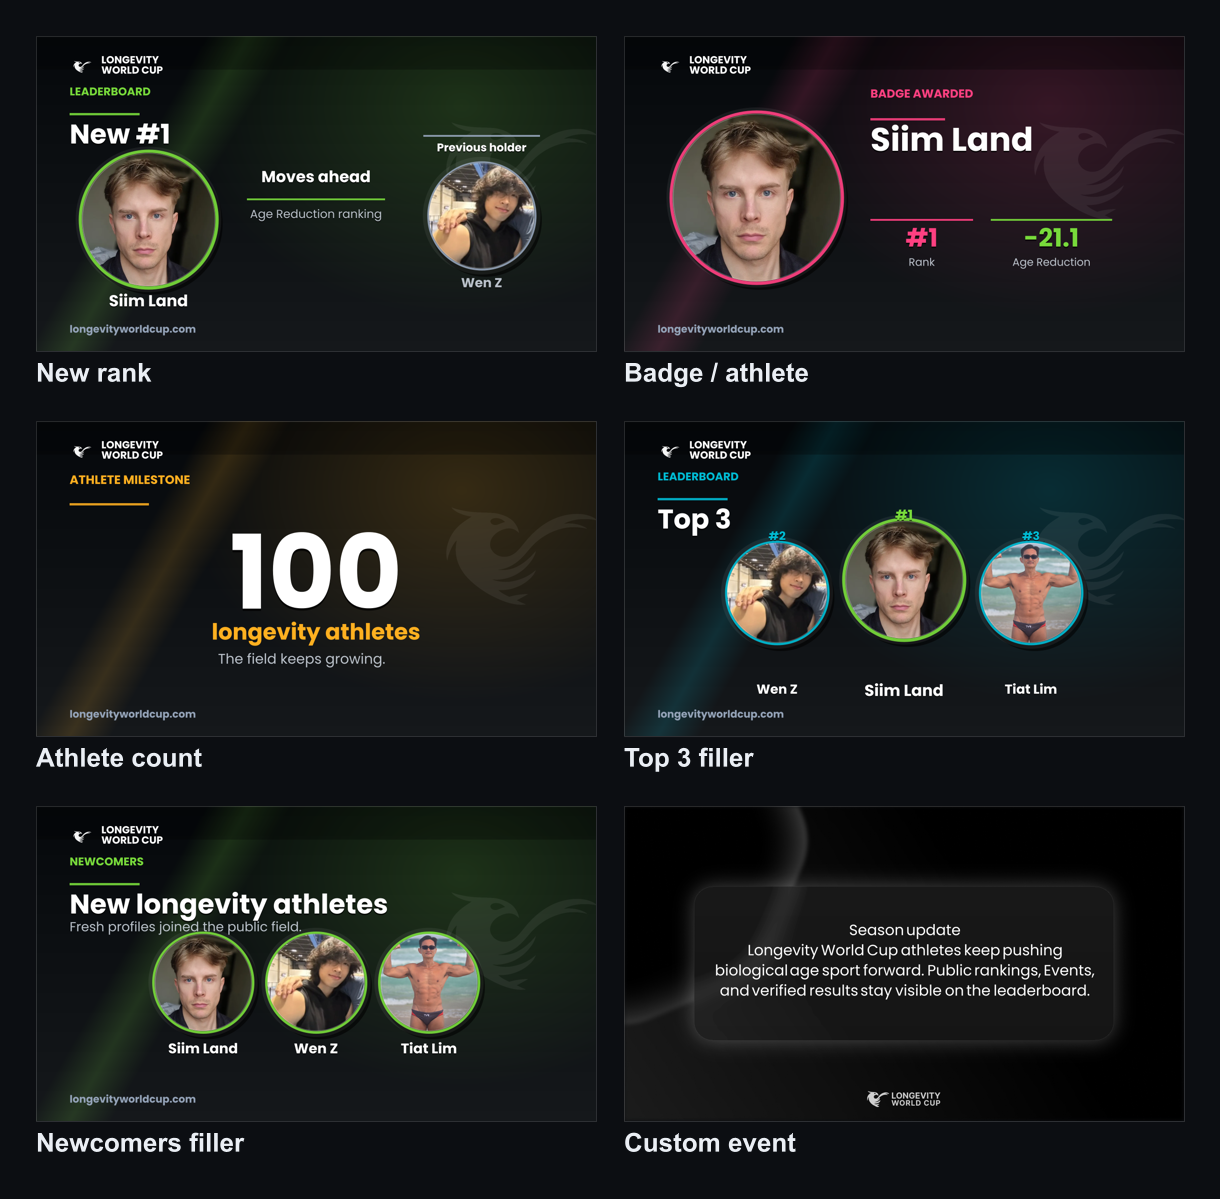
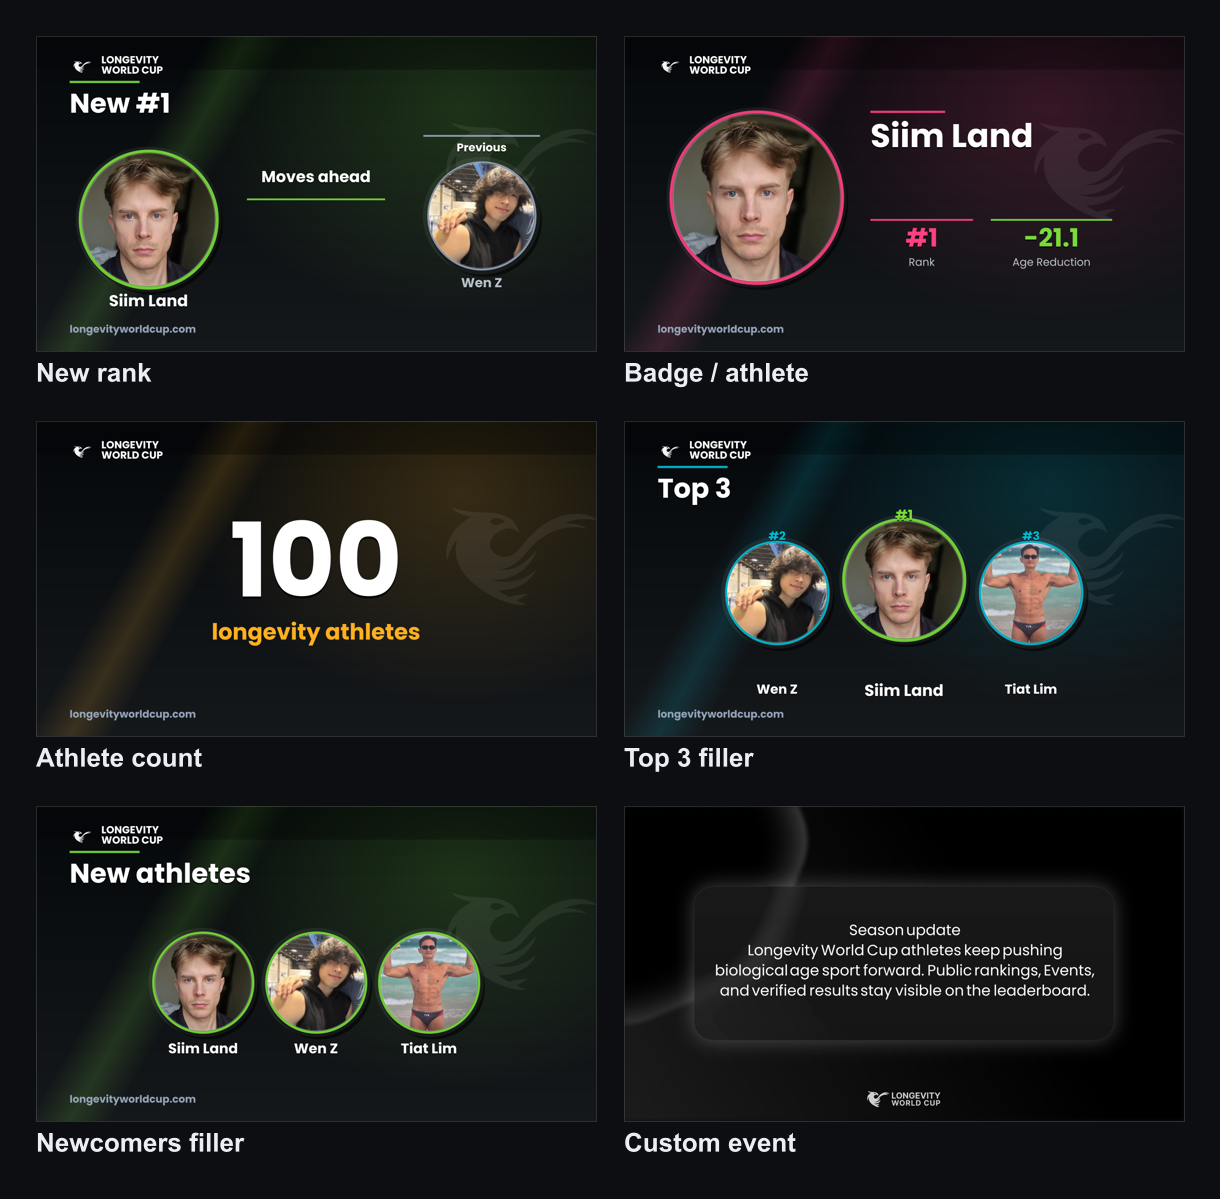
Reduce preview copy

diff --git a/LongevityWorldCup.Website/Business/XImageService.cs b/LongevityWorldCup.Website/Business/XImageService.cs
@@ -74,9 +74,9 @@ public class XImageService
         DrawTitleBlock(
             image,
             fonts,
-            "Newcomers",
-            "New longevity athletes",
-            "Fresh profiles joined the public field.",
+            "",
+            "New athletes",
+            "",
             GreenAccent);
 
         const int size = 208;
@@ -110,7 +110,7 @@ public class XImageService
         DrawTitleBlock(
             image,
             fonts,
-            "Leaderboard",
+            "",
             winner.Rank > 0 ? $"New #{winner.Rank}" : "New rank",
             "",
             GreenAccent);
@@ -125,9 +125,7 @@ public class XImageService
         {
             var badgeFont = fonts.Bold.CreateFont(24f, FontStyle.Bold);
             var centerFont = fonts.Bold.CreateFont(34f, FontStyle.Bold);
-            var smallFont = fonts.Regular.CreateFont(25f, FontStyle.Regular);
-
-            DrawMetricPill(ctx, "Previous holder", badgeFont, FaintTextColor, 830f, 212f, 250f, 48f);
+            DrawMetricPill(ctx, "Previous", badgeFont, FaintTextColor, 830f, 212f, 250f, 48f);
 
             ctx.Fill(ToRgba(GreenAccent, 225), new RectangularPolygon(452f, 348f, 296f, 4f));
             DrawTextShadow(ctx, "Moves ahead", centerFont, new PointF(CanvasWidth / 2f, 286f), HorizontalAlignment.Center, 2f);
@@ -137,14 +135,6 @@ public class XImageService
                 HorizontalAlignment = HorizontalAlignment.Center,
                 VerticalAlignment = VerticalAlignment.Top
             }, "Moves ahead", TextColor);
-
-            DrawTextShadow(ctx, "Age Reduction ranking", smallFont, new PointF(CanvasWidth / 2f, 370f), HorizontalAlignment.Center, 2f);
-            ctx.DrawText(new RichTextOptions(smallFont)
-            {
-                Origin = new PointF(CanvasWidth / 2f, 370f),
-                HorizontalAlignment = HorizontalAlignment.Center,
-                VerticalAlignment = VerticalAlignment.Top
-            }, "Age Reduction ranking", MutedTextColor);
         });
 
         DrawDomain(image, fonts.Bold);
@@ -165,21 +155,13 @@ public class XImageService
 
         image.Mutate(ctx =>
         {
-            var kickerFont = fonts.Bold.CreateFont(25f, FontStyle.Bold);
             var titleFont = FitFontToWidth(fonts.Bold, athlete.Name, 70f, 44f, 560f);
             var metricFont = fonts.Bold.CreateFont(54f, FontStyle.Bold);
             var metricLabelFont = fonts.Regular.CreateFont(23f, FontStyle.Regular);
 
-            ctx.Fill(new Rgba32(255, 64, 129, 220), new RectangularPolygon(528f, 176f, 160f, 5f));
-            ctx.DrawText(new RichTextOptions(kickerFont)
-            {
-                Origin = new PointF(528f, 112f),
-                HorizontalAlignment = HorizontalAlignment.Left,
-                VerticalAlignment = VerticalAlignment.Top
-            }, "BADGE AWARDED", PinkAccent);
-
-            DrawTextShadow(ctx, athlete.Name, titleFont, new PointF(528f, 190f), HorizontalAlignment.Left, 3f);
-            DrawWrappedText(ctx, athlete.Name, titleFont, TextColor, new PointF(528f, 190f), 560f, 2, 76f);
+            ctx.Fill(new Rgba32(255, 64, 129, 220), new RectangularPolygon(528f, 160f, 160f, 5f));
+            DrawTextShadow(ctx, athlete.Name, titleFont, new PointF(528f, 182f), HorizontalAlignment.Left, 3f);
+            DrawWrappedText(ctx, athlete.Name, titleFont, TextColor, new PointF(528f, 182f), 560f, 2, 76f);
             DrawMetricColumn(ctx, BuildRankValue(athlete), "Rank", metricFont, metricLabelFont, PinkAccent, 638f, 392f, 220f);
             DrawMetricColumn(ctx, BuildReductionValue(athlete), "Age Reduction", metricFont, metricLabelFont, GreenAccent, 916f, 392f, 260f);
         });
@@ -207,7 +189,7 @@ public class XImageService
         DrawTitleBlock(
             image,
             fonts,
-            "Leaderboard",
+            "",
             "Top 3",
             "",
             CyanAccent);
@@ -275,24 +257,14 @@ public class XImageService
 
         image.Mutate(ctx =>
         {
-            var kickerFont = fonts.Bold.CreateFont(26f, FontStyle.Bold);
             var numberFont = FitFontToWidth(fonts.Bold, athleteCount.ToString(CultureInfo.InvariantCulture), 220f, 118f, 760f);
             var labelFont = fonts.Bold.CreateFont(48f, FontStyle.Bold);
-            var bodyFont = fonts.Regular.CreateFont(30f, FontStyle.Regular);
-
-            ctx.DrawText(new RichTextOptions(kickerFont)
-            {
-                Origin = new PointF(HeaderX, 114f),
-                HorizontalAlignment = HorizontalAlignment.Left,
-                VerticalAlignment = VerticalAlignment.Top
-            }, "ATHLETE MILESTONE", AmberAccent);
-            ctx.Fill(new Rgba32(255, 176, 32, 220), new RectangularPolygon(HeaderX, 176f, 170f, 5f));
 
             var countText = athleteCount.ToString(CultureInfo.InvariantCulture);
-            DrawTextShadow(ctx, countText, numberFont, new PointF(CanvasWidth / 2f, 226f), HorizontalAlignment.Center, 5f);
+            DrawTextShadow(ctx, countText, numberFont, new PointF(CanvasWidth / 2f, 200f), HorizontalAlignment.Center, 5f);
             ctx.DrawText(new RichTextOptions(numberFont)
             {
-                Origin = new PointF(CanvasWidth / 2f, 226f),
+                Origin = new PointF(CanvasWidth / 2f, 200f),
                 HorizontalAlignment = HorizontalAlignment.Center,
                 VerticalAlignment = VerticalAlignment.Top
             }, countText, TextColor);
@@ -303,8 +275,6 @@ public class XImageService
                 HorizontalAlignment = HorizontalAlignment.Center,
                 VerticalAlignment = VerticalAlignment.Top
             }, "longevity athletes", AmberAccent);
-
-            DrawWrappedText(ctx, "The field keeps growing.", bodyFont, MutedTextColor, new PointF(390f, 496f), 420f, 1, 40f);
         });
 
         DrawDomain(image, fonts.Bold);
@@ -396,20 +366,28 @@ public class XImageService
         var kickerFont = fonts.Bold.CreateFont(24f, FontStyle.Bold);
         var titleFont = FitFontToWidth(fonts.Bold, title, 58f, 42f, 720f);
         var subtitleFont = fonts.Regular.CreateFont(28f, FontStyle.Regular);
+        var hasKicker = !string.IsNullOrWhiteSpace(kicker);
+        var hasSubtitle = !string.IsNullOrWhiteSpace(subtitle);
+        var titleY = hasKicker ? 184f : 118f;
+        var ruleY = hasKicker ? 165f : 96f;
 
         image.Mutate(ctx =>
         {
-            ctx.DrawText(new RichTextOptions(kickerFont)
+            if (hasKicker)
             {
-                Origin = new PointF(HeaderX, 108f),
-                HorizontalAlignment = HorizontalAlignment.Left,
-                VerticalAlignment = VerticalAlignment.Top
-            }, kicker.ToUpperInvariant(), accent);
+                ctx.DrawText(new RichTextOptions(kickerFont)
+                {
+                    Origin = new PointF(HeaderX, 108f),
+                    HorizontalAlignment = HorizontalAlignment.Left,
+                    VerticalAlignment = VerticalAlignment.Top
+                }, kicker.ToUpperInvariant(), accent);
+            }
 
-            ctx.Fill(ToRgba(accent, 225), new RectangularPolygon(HeaderX, 165f, 150f, 5f));
-            DrawTextShadow(ctx, title, titleFont, new PointF(HeaderX, 184f), HorizontalAlignment.Left, 3f);
-            DrawWrappedText(ctx, title, titleFont, TextColor, new PointF(HeaderX, 184f), 760f, 1, 64f);
-            DrawWrappedText(ctx, subtitle, subtitleFont, MutedTextColor, new PointF(HeaderX, 246f), 760f, 1, 38f);
+            ctx.Fill(ToRgba(accent, 225), new RectangularPolygon(HeaderX, ruleY, 150f, 5f));
+            DrawTextShadow(ctx, title, titleFont, new PointF(HeaderX, titleY), HorizontalAlignment.Left, 3f);
+            DrawWrappedText(ctx, title, titleFont, TextColor, new PointF(HeaderX, titleY), 760f, 1, 64f);
+            if (hasSubtitle)
+                DrawWrappedText(ctx, subtitle, subtitleFont, MutedTextColor, new PointF(HeaderX, titleY + 62f), 760f, 1, 38f);
         });
     }
 

diff --git a/LongevityWorldCup.Website/Middleware/HtmlInjectionMiddleware.cs b/LongevityWorldCup.Website/Middleware/HtmlInjectionMiddleware.cs
@@ -43,13 +43,13 @@ namespace LongevityWorldCup.Website.Middleware
             {
                 ["bortz"] = new(
                     "Bortz Age Leaderboard | Longevity World Cup",
-                    "Track Longevity World Cup bortz age rankings for athletes with eligible bortz age results."),
+                    "Eligible Bortz Age results."),
                 ["pheno"] = new(
                     "Pheno Age Leaderboard | Longevity World Cup",
-                    "Track Longevity World Cup pheno age rankings from verified biological age submissions."),
+                    "Verified Pheno Age submissions."),
                 ["crowd"] = new(
                     "Crowd Age Leaderboard | Longevity World Cup",
-                    "Track the Longevity World Cup crowd age leaderboard for athletes with enough accepted age guesses.")
+                    "Crowd Age rankings from accepted guesses.")
             };
 
         public async Task Invoke(HttpContext context)
@@ -467,7 +467,7 @@ $@"<script type=""module"">
                     canonicalUrl,
                     "Longevity World Cup | Reverse Your Biological Age",
                     "Longevity World Cup | Reverse Your Biological Age",
-                    "Too old for your sport? Not this one. Reverse your age and rise on the leaderboard.",
+                    "Reverse age. Climb the leaderboard.",
                     BuildPageOgImageUrl("home", defaultOgImage)
                 ),
                 "/leaderboard" => new SeoMeta(
@@ -477,7 +477,7 @@ $@"<script type=""module"">
                     canonicalUrl,
                     "Leaderboard | Longevity World Cup",
                     "Leaderboard | Longevity World Cup",
-                    "View the Longevity World Cup leaderboard for verified biological age reduction rankings across athletes, leagues, and categories.",
+                    "Verified age reduction rankings.",
                     defaultOgImage
                 ),
                 "/longevitymaxxing" => new SeoMeta(
@@ -487,7 +487,7 @@ $@"<script type=""module"">
                     canonicalUrl,
                     "Longevitymaxxing Challenge | Longevity World Cup",
                     "Longevitymaxxing Challenge | Longevity World Cup",
-                    "A 14-day Lifestyle challenge for getting momentum back with a public visual leaderboard.",
+                    "A 14-day Lifestyle challenge.",
                     longevitymaxxingOgImage
                 ),
                 "/events" => new SeoMeta(
@@ -497,7 +497,7 @@ $@"<script type=""module"">
                     canonicalUrl,
                     "Highlights | Longevity World Cup",
                     "Highlights | Longevity World Cup",
-                    "Follow key Longevity World Cup events, season updates, and competition highlights.",
+                    "Season updates and competition highlights.",
                     BuildPageOgImageUrl("events", defaultOgImage)
                 ),
                 "/media" => new SeoMeta(
@@ -507,7 +507,7 @@ $@"<script type=""module"">
                     canonicalUrl,
                     "Media Kit | Longevity World Cup",
                     "Media Kit | Longevity World Cup",
-                    "Access the Longevity World Cup media kit with press-ready branding assets and resources.",
+                    "Press-ready logos and assets.",
                     BuildPageOgImageUrl("media", defaultOgImage)
                 ),
                 "/about" => new SeoMeta(
@@ -517,7 +517,7 @@ $@"<script type=""module"">
                     canonicalUrl,
                     "About Longevity World Cup",
                     "About Longevity World Cup",
-                    "Learn why Longevity World Cup is an open competition where longevity athletes rank by biomarker-based biological age reduction.",
+                    "A biomarker-based longevity sport.",
                     BuildPageOgImageUrl("about", defaultOgImage)
                 ),
                 "/history" => new SeoMeta(
@@ -527,7 +527,7 @@ $@"<script type=""module"">
                     canonicalUrl,
                     "History of Longevity as a Sport | Longevity World Cup",
                     "History of Longevity as a Sport | Longevity World Cup",
-                    "Read the history of longevity as a sport, from early biological age leaderboards to the Longevity World Cup.",
+                    "How longevity became a sport.",
                     BuildPageOgImageUrl("history", defaultOgImage)
                 ),
                 "/ruleset" => new SeoMeta(
@@ -537,7 +537,7 @@ $@"<script type=""module"">
                     canonicalUrl,
                     "Ruleset | Longevity World Cup",
                     "Ruleset | Longevity World Cup",
-                    "Review the Longevity World Cup ruleset for seasons, tracks, rankings, valid submissions, prizes, and payouts.",
+                    "Seasons, tracks, rankings, prizes.",
                     BuildPageOgImageUrl("ruleset", defaultOgImage)
                 ),
                 _ when !IndexableRoutes.Contains(canonicalPath) => new SeoMeta(
@@ -547,7 +547,7 @@ $@"<script type=""module"">
                     canonicalUrl,
                     "Longevity World Cup",
                     "Longevity World Cup",
-                    "Longevity World Cup member page.",
+                    "Longevity World Cup.",
                     defaultOgImage
                 ),
                 _ => new SeoMeta(
@@ -557,7 +557,7 @@ $@"<script type=""module"">
                     canonicalUrl,
                     "Longevity World Cup",
                     "Longevity World Cup",
-                    "Longevity World Cup - reverse biological age and compete globally.",
+                    "Reverse biological age and compete.",
                     defaultOgImage
                 )
             };
@@ -656,7 +656,7 @@ $@"<script type=""module"">
             var canonicalUrl = $"{SiteBaseUrl}{canonicalPath}";
             var signedReduction = payload.AgeReduction.ToString("+#0.0;-#0.0;0.0", CultureInfo.InvariantCulture);
             var title = $"{payload.Name} | #{payload.Rank} {payload.LeagueName}";
-            var description = $"{payload.Name} is ranked #{payload.Rank} in the {payload.LeagueName} with {signedReduction} years age reduction.";
+            var description = $"{payload.LeagueName} rank #{payload.Rank}. {signedReduction} years.";
             var ogImageUrl = _athleteOgImages.BuildVersionedImageUrl(SiteBaseUrl, payload);
 
             seo = new SeoMeta(
@@ -693,10 +693,7 @@ $@"<script type=""module"">
                 : $"/league/{payload.RouteSlug}";
             var canonicalUrl = $"{SiteBaseUrl}{canonicalPath}";
             var title = $"{payload.DisplayName} | Longevity World Cup";
-            var top3Text = payload.Top3Names.Count > 0
-                ? $" Current top athletes: {string.Join(", ", payload.Top3Names.Take(3))}."
-                : "";
-            var description = $"Track rankings in the {payload.DisplayName}.{top3Text}";
+            var description = "Current league rankings.";
             var ogImageUrl = _leagueOgImages.IsConfigured
                 ? _leagueOgImages.BuildVersionedImageUrl(SiteBaseUrl, payload)
                 : BuildDefaultOgImageUrl();

diff --git a/LongevityWorldCup.Website/Business/PageOgImageService.cs b/LongevityWorldCup.Website/Business/PageOgImageService.cs
@@ -22,7 +22,6 @@ public sealed class PageOgImageService
     private static readonly Color BackgroundTop = ParseHex("05080B");
     private static readonly Color BackgroundBottom = ParseHex("15181B");
     private static readonly Color TitleColor = Color.White;
-    private static readonly Color BodyColor = new(new Rgba32(226, 232, 240, 232));
     private static readonly Color MutedColor = new(new Rgba32(148, 163, 184, 255));
     private static readonly Color ShadowColor = new(new Rgba32(0, 0, 0, 180));
 
@@ -210,12 +209,12 @@ public sealed class PageOgImageService
         using var image = new Image<Rgba32>(CanvasWidth, CanvasHeight);
         DrawBackground(image, ParseHex(payload.AccentHex));
 
-        var (boldFamily, regularFamily) = GetFontFamilies();
+        var (boldFamily, _) = GetFontFamilies();
         var accent = ParseHex(payload.AccentHex);
 
         await DrawLogoMarksAsync(image, ct);
         DrawHeaderText(image, boldFamily);
-        DrawTextContent(image, payload, boldFamily, regularFamily, accent);
+        DrawTextContent(image, payload, boldFamily, accent);
 
         await image.SaveAsPngAsync(outputPath, ct);
     }
@@ -289,11 +288,10 @@ public sealed class PageOgImageService
         });
     }
 
-    private static void DrawTextContent(Image<Rgba32> image, PageOgPayload payload, FontFamily boldFamily, FontFamily regularFamily, Color accent)
+    private static void DrawTextContent(Image<Rgba32> image, PageOgPayload payload, FontFamily boldFamily, Color accent)
     {
         var kickerFont = boldFamily.CreateFont(26, FontStyle.Bold);
-        var titleFont = FitFontToWidth(boldFamily, payload.Title, 78f, 52f, ContentWidth);
-        var bodyFont = regularFamily.CreateFont(31f, FontStyle.Regular);
+        var titleFont = FitFontToWidth(boldFamily, payload.Title, 84f, 54f, ContentWidth);
         var footerFont = boldFamily.CreateFont(22f, FontStyle.Bold);
 
         image.Mutate(ctx =>
@@ -308,10 +306,8 @@ public sealed class PageOgImageService
             ctx.Fill(new Rgba32(accent.ToPixel<Rgba32>().R, accent.ToPixel<Rgba32>().G, accent.ToPixel<Rgba32>().B, 220),
                 new RectangularPolygon(ContentX, ContentTop + 114f, 176f, 5f));
 
-            DrawTextShadow(ctx, payload.Title, titleFont, new PointF(ContentX, ContentTop + 156f), HorizontalAlignment.Left, 3f);
-            DrawWrappedText(ctx, payload.Title, titleFont, TitleColor, new PointF(ContentX, ContentTop + 156f), ContentWidth, 2, 82f);
-
-            DrawWrappedText(ctx, payload.Description, bodyFont, BodyColor, new PointF(ContentX, ContentTop + 386f), 870f, 2, 42f);
+            DrawTextShadow(ctx, payload.Title, titleFont, new PointF(ContentX, ContentTop + 174f), HorizontalAlignment.Left, 3f);
+            DrawWrappedText(ctx, payload.Title, titleFont, TitleColor, new PointF(ContentX, ContentTop + 174f), ContentWidth, 2, 88f);
 
             ctx.DrawText(new RichTextOptions(footerFont)
             {
@@ -378,7 +374,7 @@ public sealed class PageOgImageService
         var regularFontTicks = File.Exists(_regularFontPath) ? File.GetLastWriteTimeUtc(_regularFontPath).Ticks : 0L;
 
         var raw = string.Join("|",
-            "page-og-v4",
+            "page-og-v5",
             definition.Slug,
             definition.Kicker,
             definition.Title,
